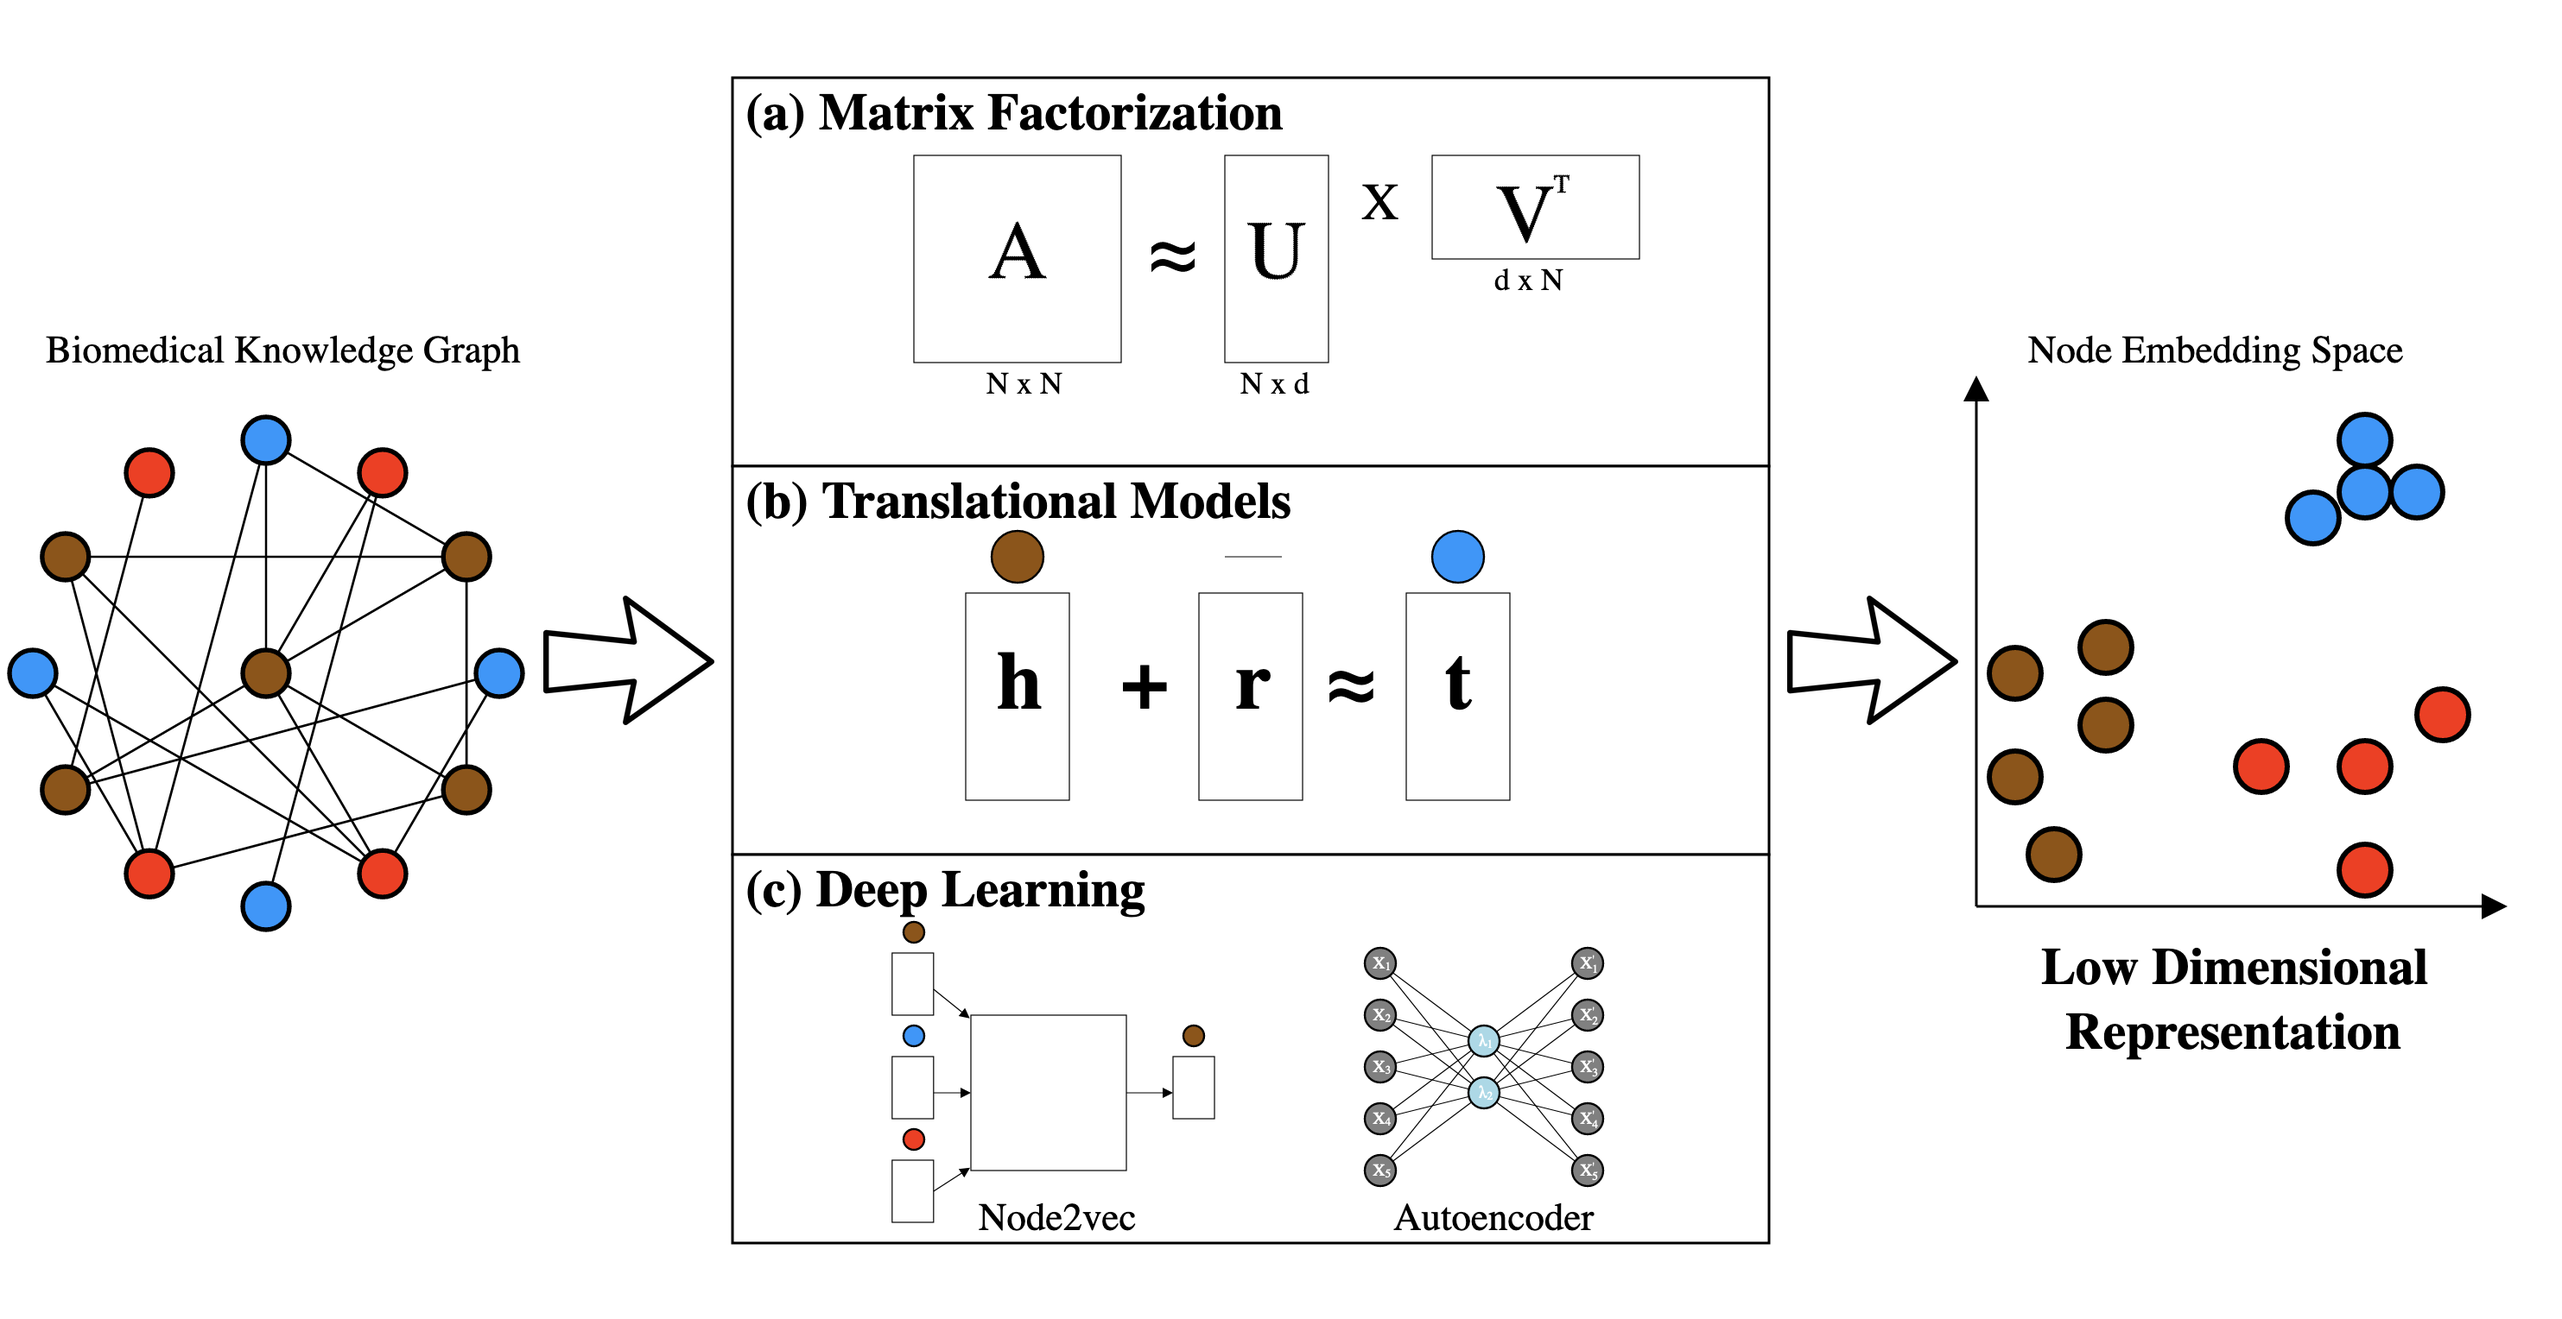
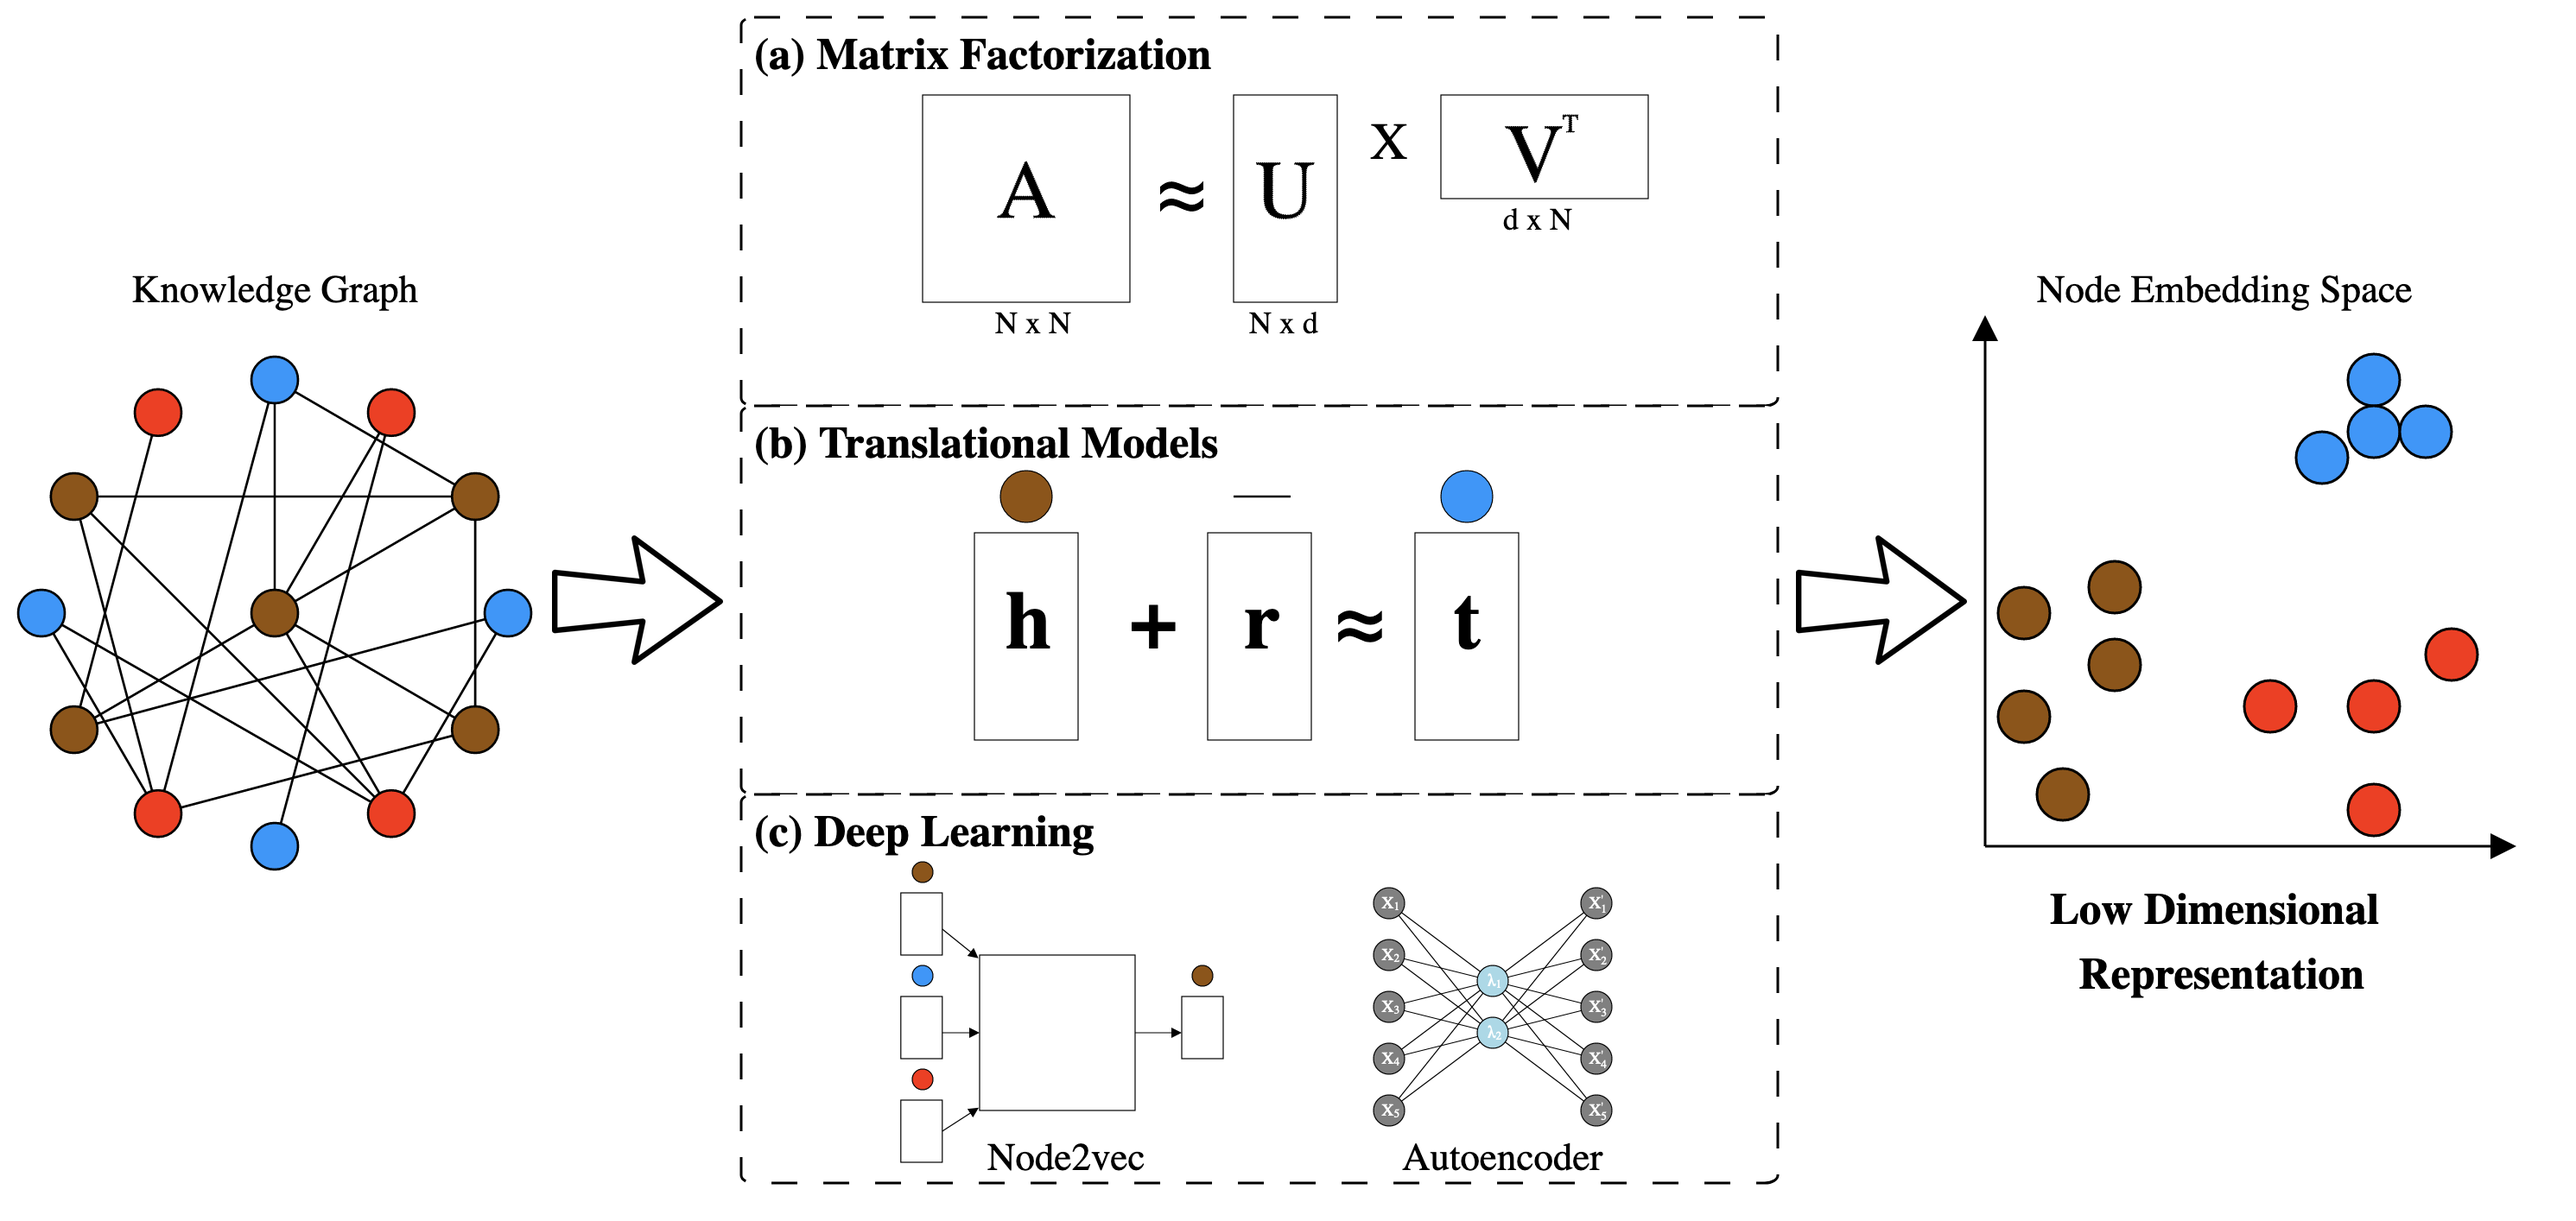
Ready for review

diff --git a/content/04.network_applications.md b/content/04.network_applications.md
@@ -9,41 +9,43 @@
 Mapping high dimensional data into a low dimensional space has greatly improved modeling performance in fields such as natural language processing [@arxiv:1301.3781; @arxiv:1310.4546] and image analysis [@arxiv:1512.03385].
 The success of these approaches provides rationale for projecting knowledge graphs into a low dimensional space as well [@arxiv:1709.05584].
 Techniques that perform this projection often require information on how nodes are connected with one another [@raw:gongreplearn; @doi:10.1109/TKDE.2016.2606098; @raw:hanreplearn; @doi:10.1145/2806416.2806512], while other approaches can work directly with the edges themselves [@arxiv:1610.04073].
-We group methods for producing low-dimensional representations of knowledge graphs into the following three categories: matrix factorization, translational methods, and deep learning.
+We group methods for producing low-dimensional representations of knowledge graphs into the following three categories: matrix factorization, translational methods, and deep learning (Figure {@fig:unifying_techniques_overview}).
 
 ![
 Pipeline for embedding knowledge graphs into a low dimensional space.
-Starting with a knowledge graph one can generate embeddings using Matrix Factorization (a), Translational Models (b) and even Deep Learning (c).
-The output of this pipeline is an embedding space where common node types are grouped together.
+Starting with a knowledge graph, embeddings can be generated using one of the following options: Matrix Factorization (a), Translational Models (b) or Deep Learning (c).
+The output of this pipeline is an embedding space that clusters similar node types together.
 ](images/figures/unifying_techniques_overview.png){#fig:unifying_techniques_overview}
 
 #### Matrix Factorization
 
 Matrix factorization is a technique that uses linear algebra to map high dimensional data into a low dimensional space.
 This projection is accomplished by decomposing a matrix into a set of small rectangular matrices (Figure {@fig:unifying_techniques_overview} (a)).
-Notable approaches in this category are Isomap [@doi:10.1126/science.290.5500.2319], Laplacian eigenmaps [@doi:10.1162/089976603321780317] and Pincipal Component Analysis (PCA) [@doi:10/bm8dnf] or Singular Vector Decomposition (SVD) [@doi:10.1007/BF02288367].
-In this section we discuss selected approaches that utilize the above methods to project knowledge graphs into a low dimensional space.
+Notable approaches in this category are: Isomap [@doi:10.1126/science.290.5500.2319], Laplacian eigenmaps [@doi:10.1162/089976603321780317] and Principal Component Analysis (PCA) [@doi:10/bm8dnf]/Singular Vector Decomposition (SVD) [@doi:10.1007/BF02288367].
+In this section we discuss approaches that utilize the above methods to project knowledge graphs into a low dimensional space.
 
-SVD [@doi:10.1007/BF02288367] is an approach that can project knowledge graphs into a low dimenisional space.
-The input for this technique is an adjacency matrix ($A$), which is a square matrix where rows and columns represent nodes in a knowledge graph and each entry represents the presence of an edge between two nodes. 
-The adjacency matrix is decomposed into three parts: a set of two small rectanguar matricies $U$ and $V^{T}$ and a square matrix $Σ$.
-This values within $Σ$ are called singular values, which are similar to eigenvalues [@doi:10.1007/BF02288367].
-Each row in $U$ represents nodes embedded into a low dimensional space while each column in $V^{T}$ represents nodes mapped onto a low dimensional space [@doi:10.1007/BF02288367; @doi:10/bm8dnf].
-In practice $U$ is usually used to represent nodes in a knowledge graph, but $V^{T}$ can also be used [@doi:10.1007/BF02288367; @raw:Jiezhon2018].  
+SVD [@doi:10.1007/BF02288367] is an approach that can project knowledge graphs into a low dimensional space.
+The input for this technique is an adjacency matrix ($A$), which is a square matrix where rows and columns represent nodes and each entry represents the presence of an edge between two nodes. 
+This adjacency matrix ($A$) gets decomposed into three parts: a square matrix $Σ$ and a set of two small rectangular matrices $U$ and $V^{T}$.
+This values within $Σ$ are called singular values, which akin to eigenvalues [@doi:10.1007/BF02288367].
+Each row in $U$ and each column in $V^{T}$ represents nodes projected onto a low dimensional space [@doi:10.1007/BF02288367; @doi:10/bm8dnf].
+In practice $U$ is usually used to represent nodes in a knowledge graph, but $V^{T}$ can also be used [@doi:10.1007/BF02288367; @raw:Jiezhon2018].
+Overall, SVD is a universal algorithm and is typically used as a baseline to compare to other approaches [@arxiv:1906.05017].
 
 Laplacian eigenmaps is an approach that projects knowledge graphs into a low dimensional space while preserving the graph's local structure.
-This technique first converts an adjacency matrix ($A$) into a laplacian matrix ($L$) by subtracting the adjacency matrix from the graph's degree matrix ($D$): a diagonal matrix where each entry represents the number of edges connected to a node.
-After calculating the laplacian matrix, this algorithm then uses linear algebra to calculate eigenvalues and eigenvectors from the laplacian matrix ($Lx = \lambda Dx$).
-The generated eigenvectors are the knowledge graph's nodes projected into a low dimensional space [@doi:10.1162/089976603321780317].
+Similar to SVD this approach takes an adjacency matrix ($A$) as input as well as a degree matrix ($D$): a diagonal matrix where each entry represents the number of edges connected to a node.
+The adjacency matrix is converted into a laplacian matrix ($L$) by subtracting it from the degree matrix $L=D-A$.
+Once the laplacian matrix is constructed, this algorithm uses linear algebra to calculate eigenvalues and eigenvectors from the matrix ($Lx = \lambda Dx$).
+The generated eigenvectors represent nodes projected onto a low dimensional space [@doi:10.1162/089976603321780317].
 A number of approaches have used variants of this algorithm to perform their own node projection [@raw:gongreplearn; @doi:10.1109/TKDE.2016.2606098; @arxiv:1905.09763].
-Typically eigenmaps work well when knowledge graphs have sparse connections between nodes, but struggle with dense networks [@arxiv:1906.05017; @doi:10.1371/journal.pcbi.1005621; @arxiv:1905.09763].
-A future direction is to adapt these methods to accommodate different knowledge graph structures.
+Typically eigenmaps work well when knowledge graphs have a sparse number of edges between nodes and struggle with denser networks [@arxiv:1906.05017; @doi:10.1371/journal.pcbi.1005621; @arxiv:1905.09763].
+A future direction is to adapt these methods to scale to knowledge graphs that have a large number of edges.
 
 Matrix factorization is a powerful technique that uses a matrices such as  an adjacency matrix as input.
-Common approaches involve using either SVD or Laplacian eigen maps to perform embeddings.
-Despite reported success, the dependence on matrices like an a adjacency matrix creates an issue of scalability.
+Common approaches involve using SVD, Laplacian eigenmaps or variants of the two to perform embeddings.
+Despite reported success, the dependence on matrices like an adjacency matrix creates an issue of scalability.
 As knowledge graphs asymptotically increases in the number of nodes and edges, these approaches would be hard to utilize.
-Furthermore, these methods treat all edge types the same, but a possible extension would be to incorporate node and edge type as sources of input.
+Furthermore, these methods treat all edge types the same, but a possible extension would be to incorporate node and edge types as sources of input.
 
 #### Translational Distance Models
 
